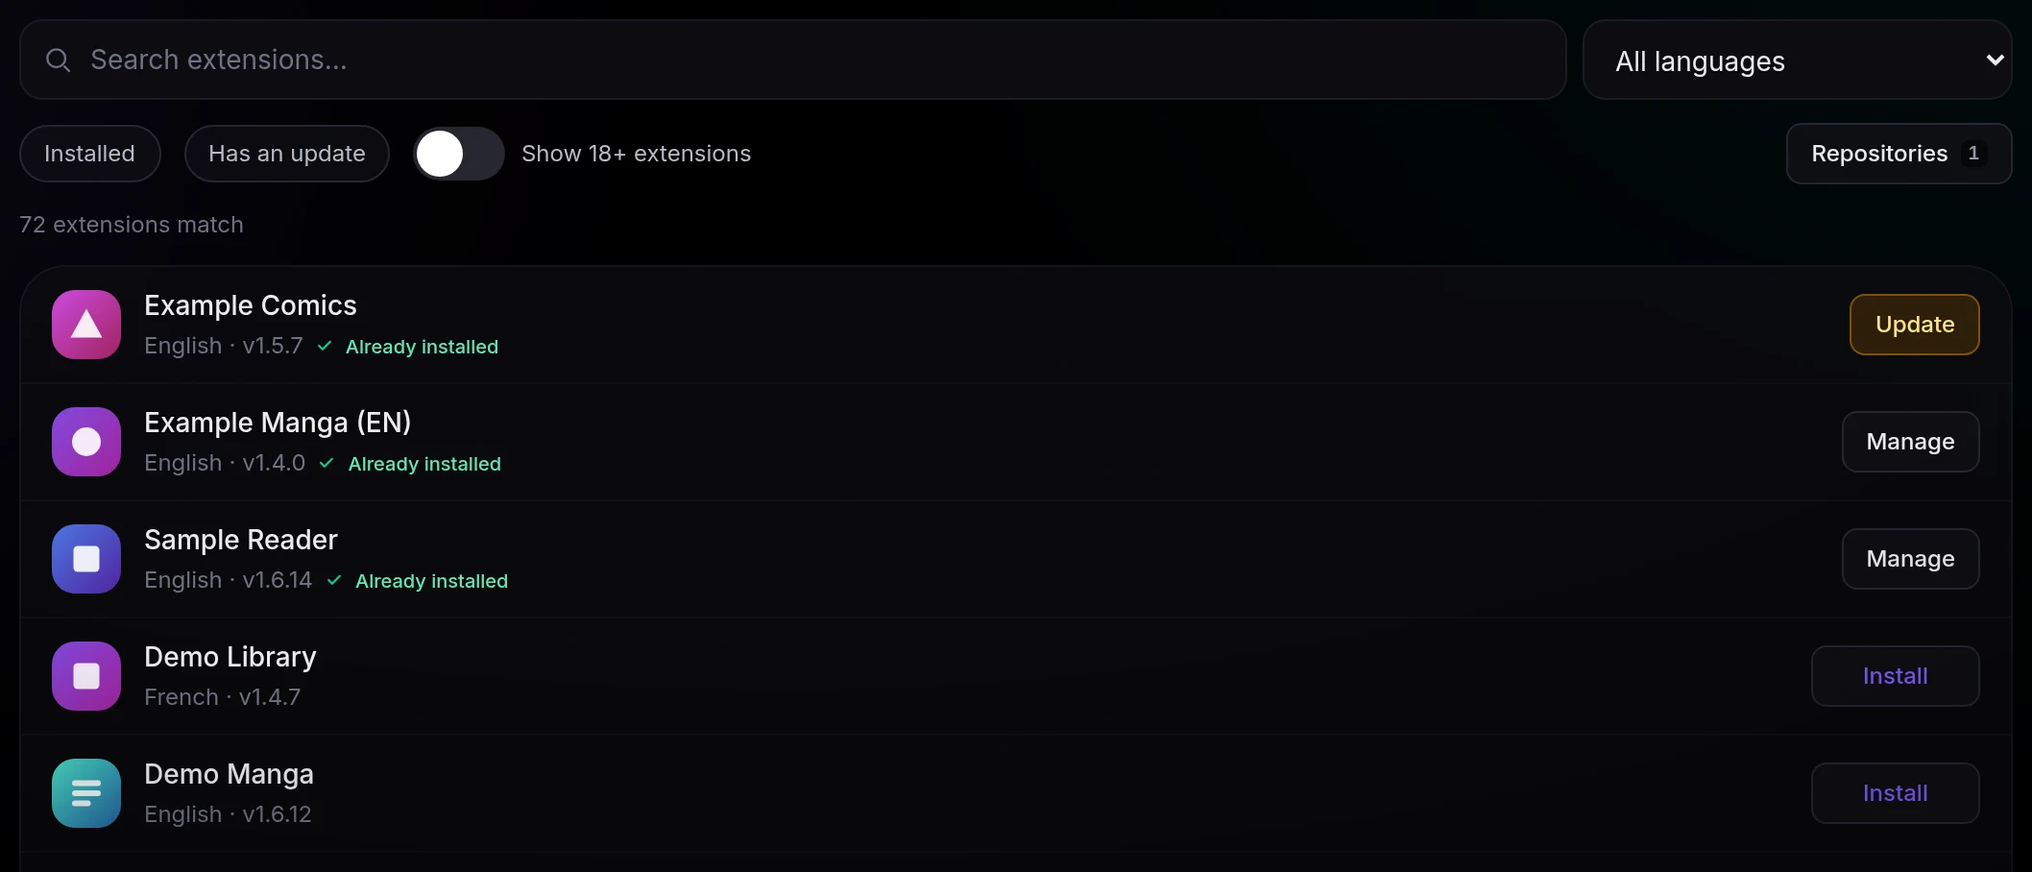
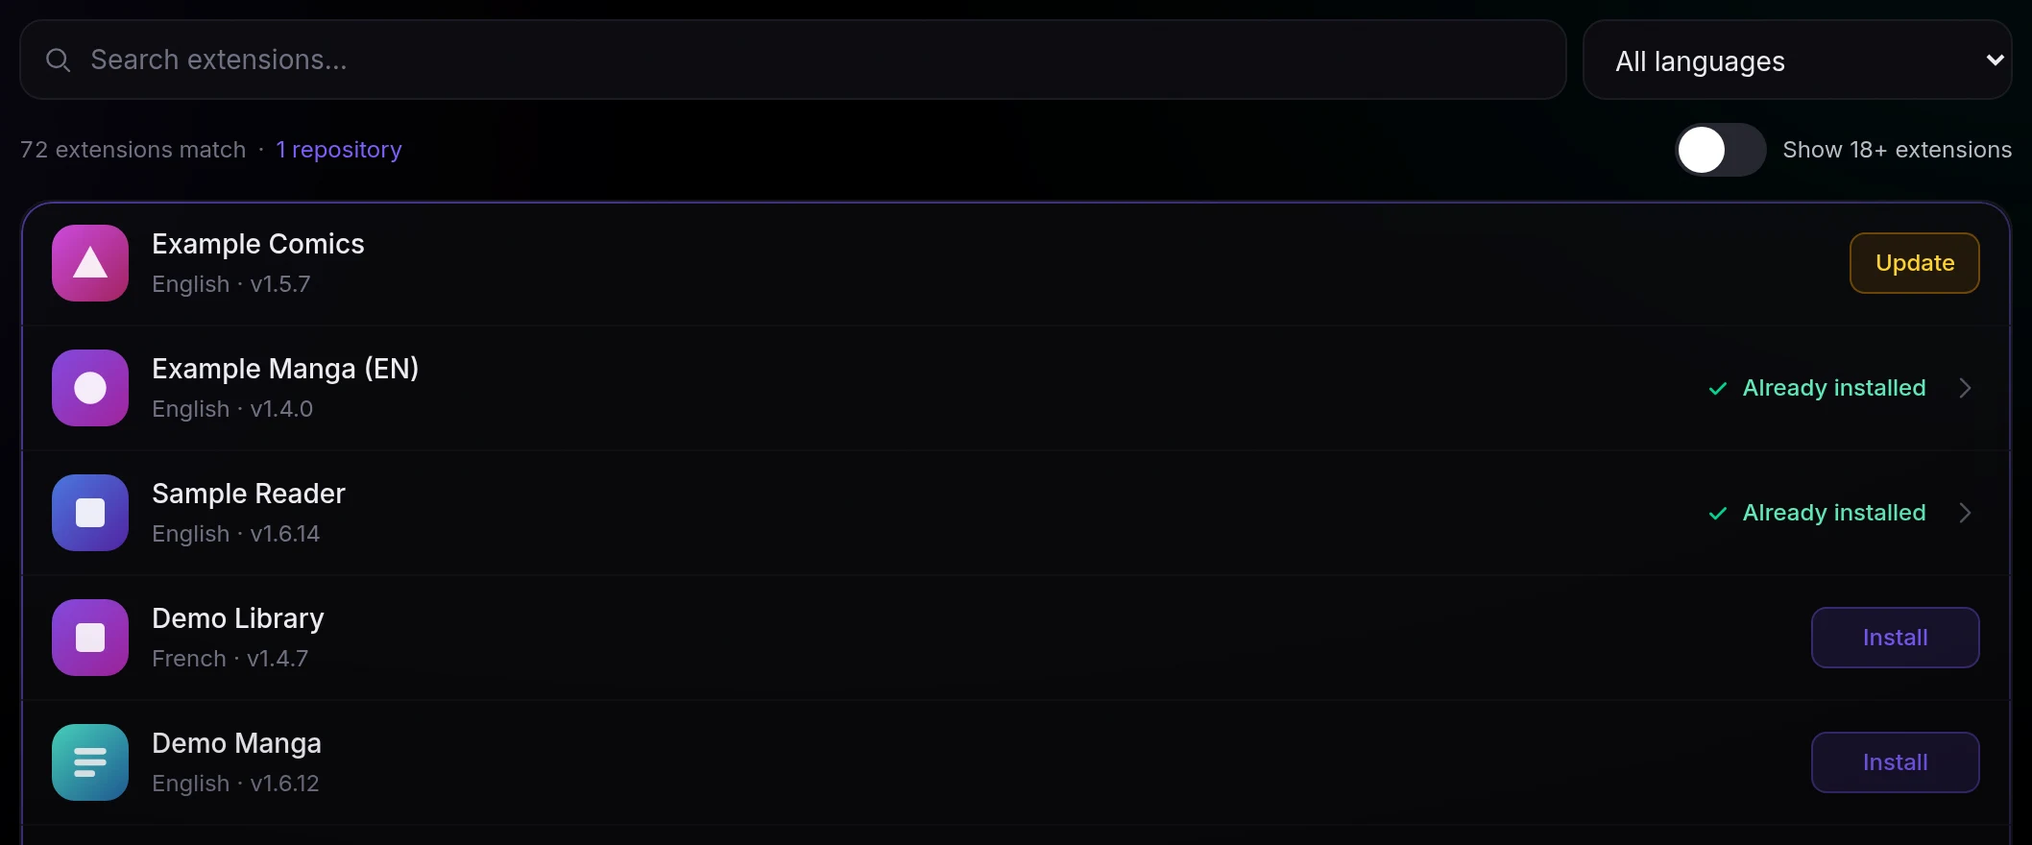
Docs: Admin -> Extensions decluttered, with its screenshots retaken
extensions.md, USAGE.md, DESKTOP.md and CONFIGURATION.md describe the strip (Ready, the version and the sources on,
Connect, Turning it off behind the engine's ⋯), the tools at the end of the views' row, Installed's groups with one
word and one key a row, Browse's count line with its repositories link and no filter chips, and the sheet's
problem-only languages, its closed Settings and its footer.

admin-extensions, crop-extensions, crop-repo-added, phone-extensions and phone-repo-added are retaken with
scripts/shots/run.sh --login against a throwaway instance (made-up extensions, no database touched). The first-run
card and the toast, whose screens did not change, keep their shots; the icon strips came out byte-identical.

diff --git a/docs/extensions.md b/docs/extensions.md
@@ -30,9 +30,10 @@ Where it comes from depends on how you run Uchiyomi:
 | **Unraid** | A template of its own: install **uchiyomi-suwayomi** from Apps ([`templates/uchiyomi-suwayomi.xml`](../templates/uchiyomi-suwayomi.xml): pinned, memory-capped, chapter downloads off, Cloudflare helper on). Set its *FLARESOLVERR_URL* to the solver Uchiyomi uses, then set Uchiyomi's advanced *SUWAYOMI_URL* to `http://YOUR-SERVER-IP:4567`. |
 | **Umbrel** | Not available. An Umbrel app cannot offer an optional second container, and putting the engine in the package would cost every Umbrel install about 800 MB whether it uses extensions or not. MangaDex and sites you add by address work there as everywhere. |
 
-When the engine is there, the top of **Admin → Extensions** is one card in two halves (since v0.53.0): **Extension
-engine** — *Engine ready · <version>*, how many extensions are installed and how many of their sources are on
-(*12 of 25 sources on*) — and **Cloudflare helper**, *Connected* or **Connect** ([how it behaves](#how-it-behaves)).
+When the engine is there, the top of **Admin → Extensions** is a slim strip of two cells (since v0.53.0): **Extension
+engine** — *Ready*, with its version and how many sources are on under it (*v2.3.2243 · 12 of 25 sources on*) — and
+**Cloudflare helper**: *Connected*, or *Not connected* with **Connect** ([how it behaves](#how-it-behaves)). The engine's
+**⋯** holds **Turning it off** ([below](#turning-it-off)); on a phone the two cells stack.
 When it is not, the tab is a **setup screen** instead (since v0.49.0). It says which of three things it is:
 
 - *Extensions are turned off* — `EXTENSION_ENGINE=0` on Docker;
@@ -81,8 +82,8 @@ https://example.org/repo/index.min.json
 
 1. Open **Admin → Extensions** (`/admin/?tab=Extensions`; the Extensions card under Providers leads there too).
 2. With no repository yet, **Browse** opens on **Add an extension repository**: a line on what a repository is,
-   and an address field (`https://…/index.min.json`). Later, the field is behind **Repositories**, at the end of
-   Browse's filters.
+   and an address field (`https://…/index.min.json`). Later, the field is behind the repositories link in the line
+   under Browse's search (*1 repository*, *2 repositories*).
 
    ![The Extensions tab on a first visit: Add an extension repository, the address field with https://example.org/repo/index.min.json typed in, and the Add button](shots/crop-repo-empty.webp)
 
@@ -96,7 +97,7 @@ https://example.org/repo/index.min.json
 
    Browse then lists what the repository offers, each extension with **Install**:
 
-   ![After the add: Browse with its search, language and filters, how many extensions there are, and the first ones with Install](shots/crop-repo-added.webp)
+   ![After the add: Browse with its search and language, the line saying how many extensions there are and from how many repositories, and the first ones with Install](shots/crop-repo-added.webp)
 
    The number is what **this** repository brought — not the size of the whole list, which also counts any
    repositories you added before.
@@ -134,49 +135,58 @@ change the address.
 | *The extension engine refused that address: …* | The engine would not take the address; its reason follows. Nothing was changed. |
 | *Could not reach the extension engine: …* | The engine is not running or not reachable ([what you need first](#what-you-need-first-the-extension-engine)). Nothing was changed. |
 
-**Removing one:** **Browse** → **Repositories** lists each address with **Remove** next to it: *Repository removed*. A removed
+**Removing one:** **Browse** → the repositories link (*1 repository*) lists each address with **Remove** next to it: *Repository removed*. A removed
 repository stays removed (before v0.45.0 the scheduled extension check could put it back). Its installed
 extensions keep working until you remove them too, but they get no updates. Add the repository again and they
 get updates again.
 
-**Check for extension updates**, on **Installed**, re-reads every repository: *Refreshed — {n} extensions available*.
-A repository that does not answer is said there, under the key, until the next check: *Could not reach the repositories
-to check for updates.* with the engine's own reason.
+**Check for extension updates**, at the end of the **Installed** | **Browse** row (its icon alone on a phone), re-reads
+every repository: *Refreshed — {n} extensions available*. A repository that does not answer is said under that row until
+the next check: *Could not reach the repositories to check for updates.* with the engine's own reason.
 
 ## Choose your extensions
 
-![Admin → Extensions: the engine and its Cloudflare helper in one card, then Installed with three extensions, one with an update](shots/admin-extensions.webp)
+![Admin → Extensions: the engine and its Cloudflare helper in one strip, then Installed: the extension with an update under Needs attention, the other two under Ready](shots/admin-extensions.webp)
 
-Since v0.53.0 the tab has two views under the engine's card: **Installed**, what you have, and **Browse**, everything
+Since v0.53.0 the tab has two views under the engine's strip: **Installed**, what you have, and **Browse**, everything
 your repositories offer. It opens on Installed once something is installed and on Browse until then; `?view=installed`
 or `?view=browse` in the address opens either.
 
-1. **Browse and press Install.** Search by name, pick a **Language**, narrow it to **Has an update** or **Installed**.
-   Every extension is reachable: Browse shows 60 at a time (*Showing 60 of 1,118*) and the next ones come as you
-   scroll, or with **Show 60 more**. (Before v0.53.0 the list stopped at the first 400 and the rest could only be
-   found by searching.) **Install** is one press: the extension installs, its sources switch on straight away, and it
-   is searchable from Discover immediately — no second step, no restart. One with several languages then opens its
-   sheet on them, so you can switch off the ones you don't read. Installed ones show **Manage**, and one with a newer
-   version **Update**.
+1. **Browse and press Install.** Search by name, or pick a **Language**. The line under them says how many match, the
+   repositories they come from (a link to them) and **Show 18+ extensions**. Every extension is reachable: Browse shows
+   60 at a time (*Showing 60 of 1,118*) and the next ones come as you scroll, or with **Show 60 more**. (Before v0.53.0
+   the list stopped at the first 400 and the rest could only be found by searching.) **Install** is one press: the
+   extension installs, its sources switch on straight away, and it is searchable from Discover immediately — no second
+   step, no restart. One with several languages then opens its sheet on them, so you can switch off the ones you don't
+   read. An installed one says *Already installed* and opens its sheet; one with a newer version has **Update**. (What
+   you have installed is the **Installed** view: Browse has no filter of its own for it.)
 2. **Adult extensions** stay out of Browse until **Show 18+ extensions** is switched on. A search that finds only
    adult ones says so: *An 18+ extension matches. It is hidden while Show 18+ extensions is off.*
-3. **Installed** has a row per extension: its icon, name and version, its languages (the ones that are on
-   highlighted) and how many of them are on. One with a newer version has **Update**, and when several do, an amber
-   bar offers **Update all**. Press a row for the extension's sheet.
-4. **The extension's sheet** has everything about one extension. Its **languages**, a switch each — *Each language is
-   its own source; turn on the ones you read.* — with how each is doing beside it (Providers' own reading, and *Over
-   the source limit* for one switched on that search cannot reach), and *Across all extensions: 12 of 25 sources on.*
-   under them. Its **Settings** ([below](#an-extensions-own-settings)). And **Remove extension**, which asks first and
-   says how many series in your library came from it: they stay readable but stop updating.
+3. **Installed** is one list, a row per extension: its icon, its name, its language (or how many it has) and version,
+   and — when nothing waits — its languages (the ones that are on highlighted), how many of them are on, and a chevron.
+   While something needs you, the list is in two groups, **Needs attention** (an update waiting, or no source on) over
+   **Ready**; when nothing does, there are no groups at all. A row says at most one thing (*Update available*, or *No
+   source on*) and offers at most one key: **Turn on**, else **Update**. An extension that needs both says *Update
+   available* and offers **Turn on**; its update is in its sheet and in **Update all**, which sits in the group's header
+   with **Turn on all** (for two or more with no source on). Press a row for the extension's sheet.
+4. **The extension's sheet** has everything about one extension: its icon, name, version, languages and how many of
+   your series came from it at the top, with **Update** beside them when one waits. Its **languages**, a switch each —
+   *Each language is its own source; turn on the ones you read.* A language has a line under it only when something is
+   wrong: Providers' own reading (*Failing*, *Blocked by the site*, …), *Over the source limit* for one switched on that
+   search cannot reach, or *Hidden in every extension* (a link to **Languages**). Near the limit (from 80 % of it) or
+   over it, *Across all extensions: 20 of 25 sources on.* is said under them. Its **Settings**, closed until you open
+   them ([below](#an-extensions-own-settings)). At its foot, *Test its sources under Providers* and **Remove
+   extension**, which asks first and says how many series in your library came from it: they stay readable but stop
+   updating.
 
-**An extension installed in the engine's own page** arrives with every source off. Installed lists it with *None of
-its sources are on* and **Turn on its sources**, and an amber bar offers **Turn on all their sources** when several
-are like that. (Before v0.53.0 they stayed off and nothing said so.) A language hidden in every extension (below) stays
-off.
+**An extension installed in the engine's own page** arrives with every source off. Installed lists it under **Needs
+attention** with *No source on* and **Turn on**, the group's **Turn on all** does it for every one of them, and its
+sheet offers **Turn on its sources**. (Before v0.53.0 they stayed off and nothing said so.) A language hidden in every
+extension (below) stays off.
 
 **Hide the languages you don't read.** A multi-language extension provides one source per language, and installing
 it switches all of them on — thirty sources you will never search, each counting towards the limit below.
-**Languages**, on Installed, lists every language your extensions offer with how many sources it has, how many are
+**Languages**, at the end of Installed's row (the globe on a phone), lists every language your extensions offer with how many sources it has, how many are
 on, and how many of your series came from them. **Hide** switches that language's sources off in one go, and it
 stays hidden: the next extension you install leaves its sources in that language off (the install message says how
 many). **Show** brings them back. Series added from a hidden language stay readable but stop updating until it is
@@ -184,15 +194,16 @@ shown again, and the Health page names them. A switch in an extension's sheet is
 this standing choice alone; the sheet marks a language you hid here *Hidden in every extension*.
 
 **Only 25 extension sources can be switched on at once** (`SUWAYOMI_MAX_SOURCES`, 25 by default), because every
-one of them is searched together. The engine's card counts them (*12 of 25 sources on*); when more are switched on
-than that, it says in amber how many were left out, and **Content → Health** lists them under *Extension source
-limit*. Hiding languages is the cheap way under it. On a Docker install, raising `SUWAYOMI_MAX_SOURCES` is the other;
+one of them is searched together. The engine's strip counts them (*v2.3.2243 · 12 of 25 sources on*); when more are
+switched on than that, the count turns amber, a line under the strip says how many were left out and how to get under
+the limit, and **Content → Health** lists them under *Extension source limit*. Hiding languages is the cheap way under it. On a Docker install, raising `SUWAYOMI_MAX_SOURCES` is the other;
 the desktop app has no setting for it.
 
 ## An extension's own settings
 
 Since v0.49.0. Many extensions have settings of their own — the screen Mihon opens from an extension's entry — and
-**Admin → Extensions** has them too: under **Settings** in the extension's sheet (press its row under Installed).
+**Admin → Extensions** has them too: under **Settings** in the extension's sheet (press its row under Installed, then
+**Settings**; with several languages the closed row says whose it opens on, *for English*).
 
 - **One language at a time.** An extension that provides one source per language keeps settings per language, and
   *Settings for* above them says whose they are (it opens on the first one switched on). It only picks whose settings
@@ -325,7 +336,7 @@ file.** An install set up before v0.46.0 gets the cap by downloading the current
 - **Health checks the engine's own Cloudflare helper.** The **Extension engine** row reads the engine's
   `flareSolverrEnabled` / `flareSolverrUrl`. When the helper is off, or points at `localhost` (the engine's own
   container, where no solver runs), the row turns amber while an extension source is seen behind Cloudflare, and
-  is a greyed line otherwise. The row, and the *Cloudflare helper* half of the card at the top of **Admin →
+  is a greyed line otherwise. The row, and the *Cloudflare helper* cell of the strip at the top of **Admin →
   Extensions**, offer **Connect**, which sets the engine to the solver Uchiyomi uses (`FLARESOLVERR_URL`) and switches it
   on. Nothing restarts, and the engine keeps it unless its own container names another solver. It is never changed
   without someone pressing it; with no `FLARESOLVERR_URL` on Uchiyomi both say to set that first. When the engine
@@ -370,7 +381,7 @@ with it the links for every series you added through an extension.
 `docker compose stop` only lasts until the next `docker compose up`, which starts it again. On Unraid and CasaOS,
 stop or remove the engine's container and empty `SUWAYOMI_URL`. The desktop app has no switch for it: an engine
 that was never downloaded costs nothing, and one that was only runs while Uchiyomi does. The same steps, per
-platform, are under **Admin → Extensions** → **Turning it off**, in the engine's card.
+platform, are under **Admin → Extensions** → the engine's **⋯** → **Turning it off**.
 
 ## Your engine's data
 
@@ -397,8 +408,8 @@ volume of that name without a word, and the backup is an empty file. With the en
 (`EXTENSION_ENGINE=0`) there is no container to borrow from: take the volume's full name from `docker volume ls`
 and mount that, `docker run --rm -v <project>_uchiyomi_suwayomi:/d -v "$PWD":/b alpine tar czf /b/engine.tgz -C /d .`
 
-On Unraid and CasaOS, copy the folder above the same way, with the engine stopped. Admin → Extensions → **Turning it
-off** says how many series depend on it, and warns you never to delete it: turning the engine off is safe, deleting its data is
+On Unraid and CasaOS, copy the folder above the same way, with the engine stopped. Admin → Extensions → **⋯** →
+**Turning it off** says how many series depend on it, and warns you never to delete it: turning the engine off is safe, deleting its data is
 not. Moving it between setups is in [MIGRATING.md](MIGRATING.md#adding-or-removing-the-extension-engine).
 
 ## Settings

diff --git a/docs/USAGE.md b/docs/USAGE.md
@@ -1360,16 +1360,17 @@ With no engine — turned off (`EXTENSION_ENGINE=0`), not set up, or not answeri
 setup screen instead of your extensions (since v0.49.0): it says which of the three it is, shows the steps for your
 platform with each command ready to copy, and **Check again** asks the engine at once; the card turns into your
 extensions by itself when it answers. Uchiyomi also keeps asking on its own, every 5 minutes, so an engine started
-later needs no restart. With the engine there, the card at the top has two halves (since v0.53.0): the engine, with
-how many extensions are installed and how many sources are on of the 25 that can be, and its *Cloudflare helper*,
-with **Connect** when the engine's own helper is off or points at `localhost` (Health's *Extension engine* row offers
-the same **Connect**). **Turning it off**, in the engine's half, has the steps to switch it off safely (on a server;
-the desktop app has no switch).
+later needs no restart. With the engine there, the top of the tab is a slim strip of two cells (since v0.53.0): the
+engine, *Ready* with its version and how many sources are on of the 25 that can be, and its *Cloudflare helper*,
+*Connected*, or *Not connected* with **Connect** when the engine's own helper is off or points at `localhost` (Health's
+*Extension engine* row offers the same **Connect**). **Turning it off**, behind the engine's **⋯**, has the steps to
+switch it off safely (on a server; the desktop app has no switch).
 Never delete the engine's data: it holds the link from every series you added through an extension to its source,
 and Uchiyomi's nightly backup does not include it ([your engine's data](extensions.md#your-engines-data)).
 
 **An extension's own settings** (since v0.49.0). An installed extension's sheet in **Admin → Extensions** (press its
-row under **Installed**) has its languages, a switch each, and under **Settings** the screen Mihon shows for it:
+row under **Installed**) has its languages, a switch each, and under **Settings** (closed until you open it) the screen
+Mihon shows for it:
 switches, lists, choices and text, exactly as the extension offers them, saved to the engine as you change them (a
 text setting when you press **Save**). An extension that provides one source per language shows *Settings for* first,
 one choice per language, since each keeps its own settings; it only picks whose settings you see. They apply to every series from that source. A setting the extension has switched off in its
@@ -1650,7 +1651,7 @@ every 5 minutes by itself), or ready, with whether the engine's own Cloudflare h
 off, or points at `localhost` where no helper runs, turns the row amber while an extension source is seen behind
 Cloudflare, and is a greyed line otherwise. When Uchiyomi has a helper of its own to share (`FLARESOLVERR_URL`),
 the row has **Connect**: it points the engine at that helper and switches it on, with nothing restarted — the same
-key as in the card at the top of **Admin → Extensions**, where the row's **Open** leads, with the setup steps and
+key as in the strip at the top of **Admin → Extensions**, where the row's **Open** leads, with the setup steps and
 **Check again**. When the engine cannot say what its helper is set to (just now, or it is too old to report it)
 while a source fails with the engine's own *Cloudflare bypass currently disabled*, the row reads *It cannot use its
 Cloudflare helper*, with **Connect** wherever there is a setting to change. Series from extensions that cannot
@@ -2512,7 +2513,7 @@ and the Health page say the same, in these words: *The extension engine's own Cl
 the Suwayomi engine's container (uchiyomi-suwayomi in the shipped compose files) set FLARESOLVERR_ENABLED=true and
 FLARESOLVERR_URL to the same solver address Uchiyomi uses (http://uchiyomi-flaresolverr:8191 in the shipped files),
 then recreate it. The v0.37.0 compose files already set both, so an upgrade that recreates the engine is the fix
-there.* Since v0.49.0 **Admin → Extensions** says so (since v0.53.0 in its card's *Cloudflare helper* half), and
+there.* Since v0.49.0 **Admin → Extensions** says so (since v0.53.0 in the *Cloudflare helper* cell of its strip), and
 **Connect** there — or on Health's
 *Extension engine* row — points the engine at the solver Uchiyomi uses (`FLARESOLVERR_URL`) without restarting
 anything. Running the engine yourself? That works too, or set both on that container — see

diff --git a/docs/DESKTOP.md b/docs/DESKTOP.md
@@ -162,8 +162,10 @@ them:
       Mihon. [Add an extension repository — step by step](extensions.md#add-an-extension-repository--step-by-step)
       explains what to paste and what each message means.
    3. **Choose extensions** under **Browse** and press **Install** on each one you want. Then hide the languages
-      you don't read (**Languages**, under **Installed**, or the switches in an extension's own sheet): only 25
-      extension sources can be switched on at once, and on the desktop app there is no setting to raise that.
+      you don't read (**Languages**, at the end of the **Installed** | **Browse** row, or the switches in an
+      extension's own sheet): only 25 extension sources can be switched on at once, and on the desktop app there is
+      no setting to raise that. The strip at the top of the tab has no **⋯** on the desktop app: there is no turning
+      the engine off there.
 
    If the download fails, *The extension engine could not be installed.* shows the reason and **Try again**.
    From then on the engine starts with Uchiyomi. It listens only on this computer, with a random password,

diff --git a/docs/CONFIGURATION.md b/docs/CONFIGURATION.md
@@ -203,7 +203,7 @@ ever hit.
   (in the tuning list of `.env.example`) is a different setting: it is the solver the built-in engines use.
   Since v0.49.0 an engine that lacks the two settings can be fixed without touching its container: **Connect** —
   on the *Extension engine* row of **Admin → Health**, which says when it is needed, or in the *Cloudflare helper*
-  half of the card at the top of **Admin → Extensions** — sets the engine's own `flareSolverrEnabled` /
+  cell of the strip at the top of **Admin → Extensions** — sets the engine's own `flareSolverrEnabled` /
   `flareSolverrUrl` to Uchiyomi's `FLARESOLVERR_URL` over its API. Nothing restarts, and the engine keeps the value
   unless its container names another solver. It is only ever done on a press, and needs `FLARESOLVERR_URL` set on
   Uchiyomi. An engine too old to report the setting has to be given the two on its own container.
